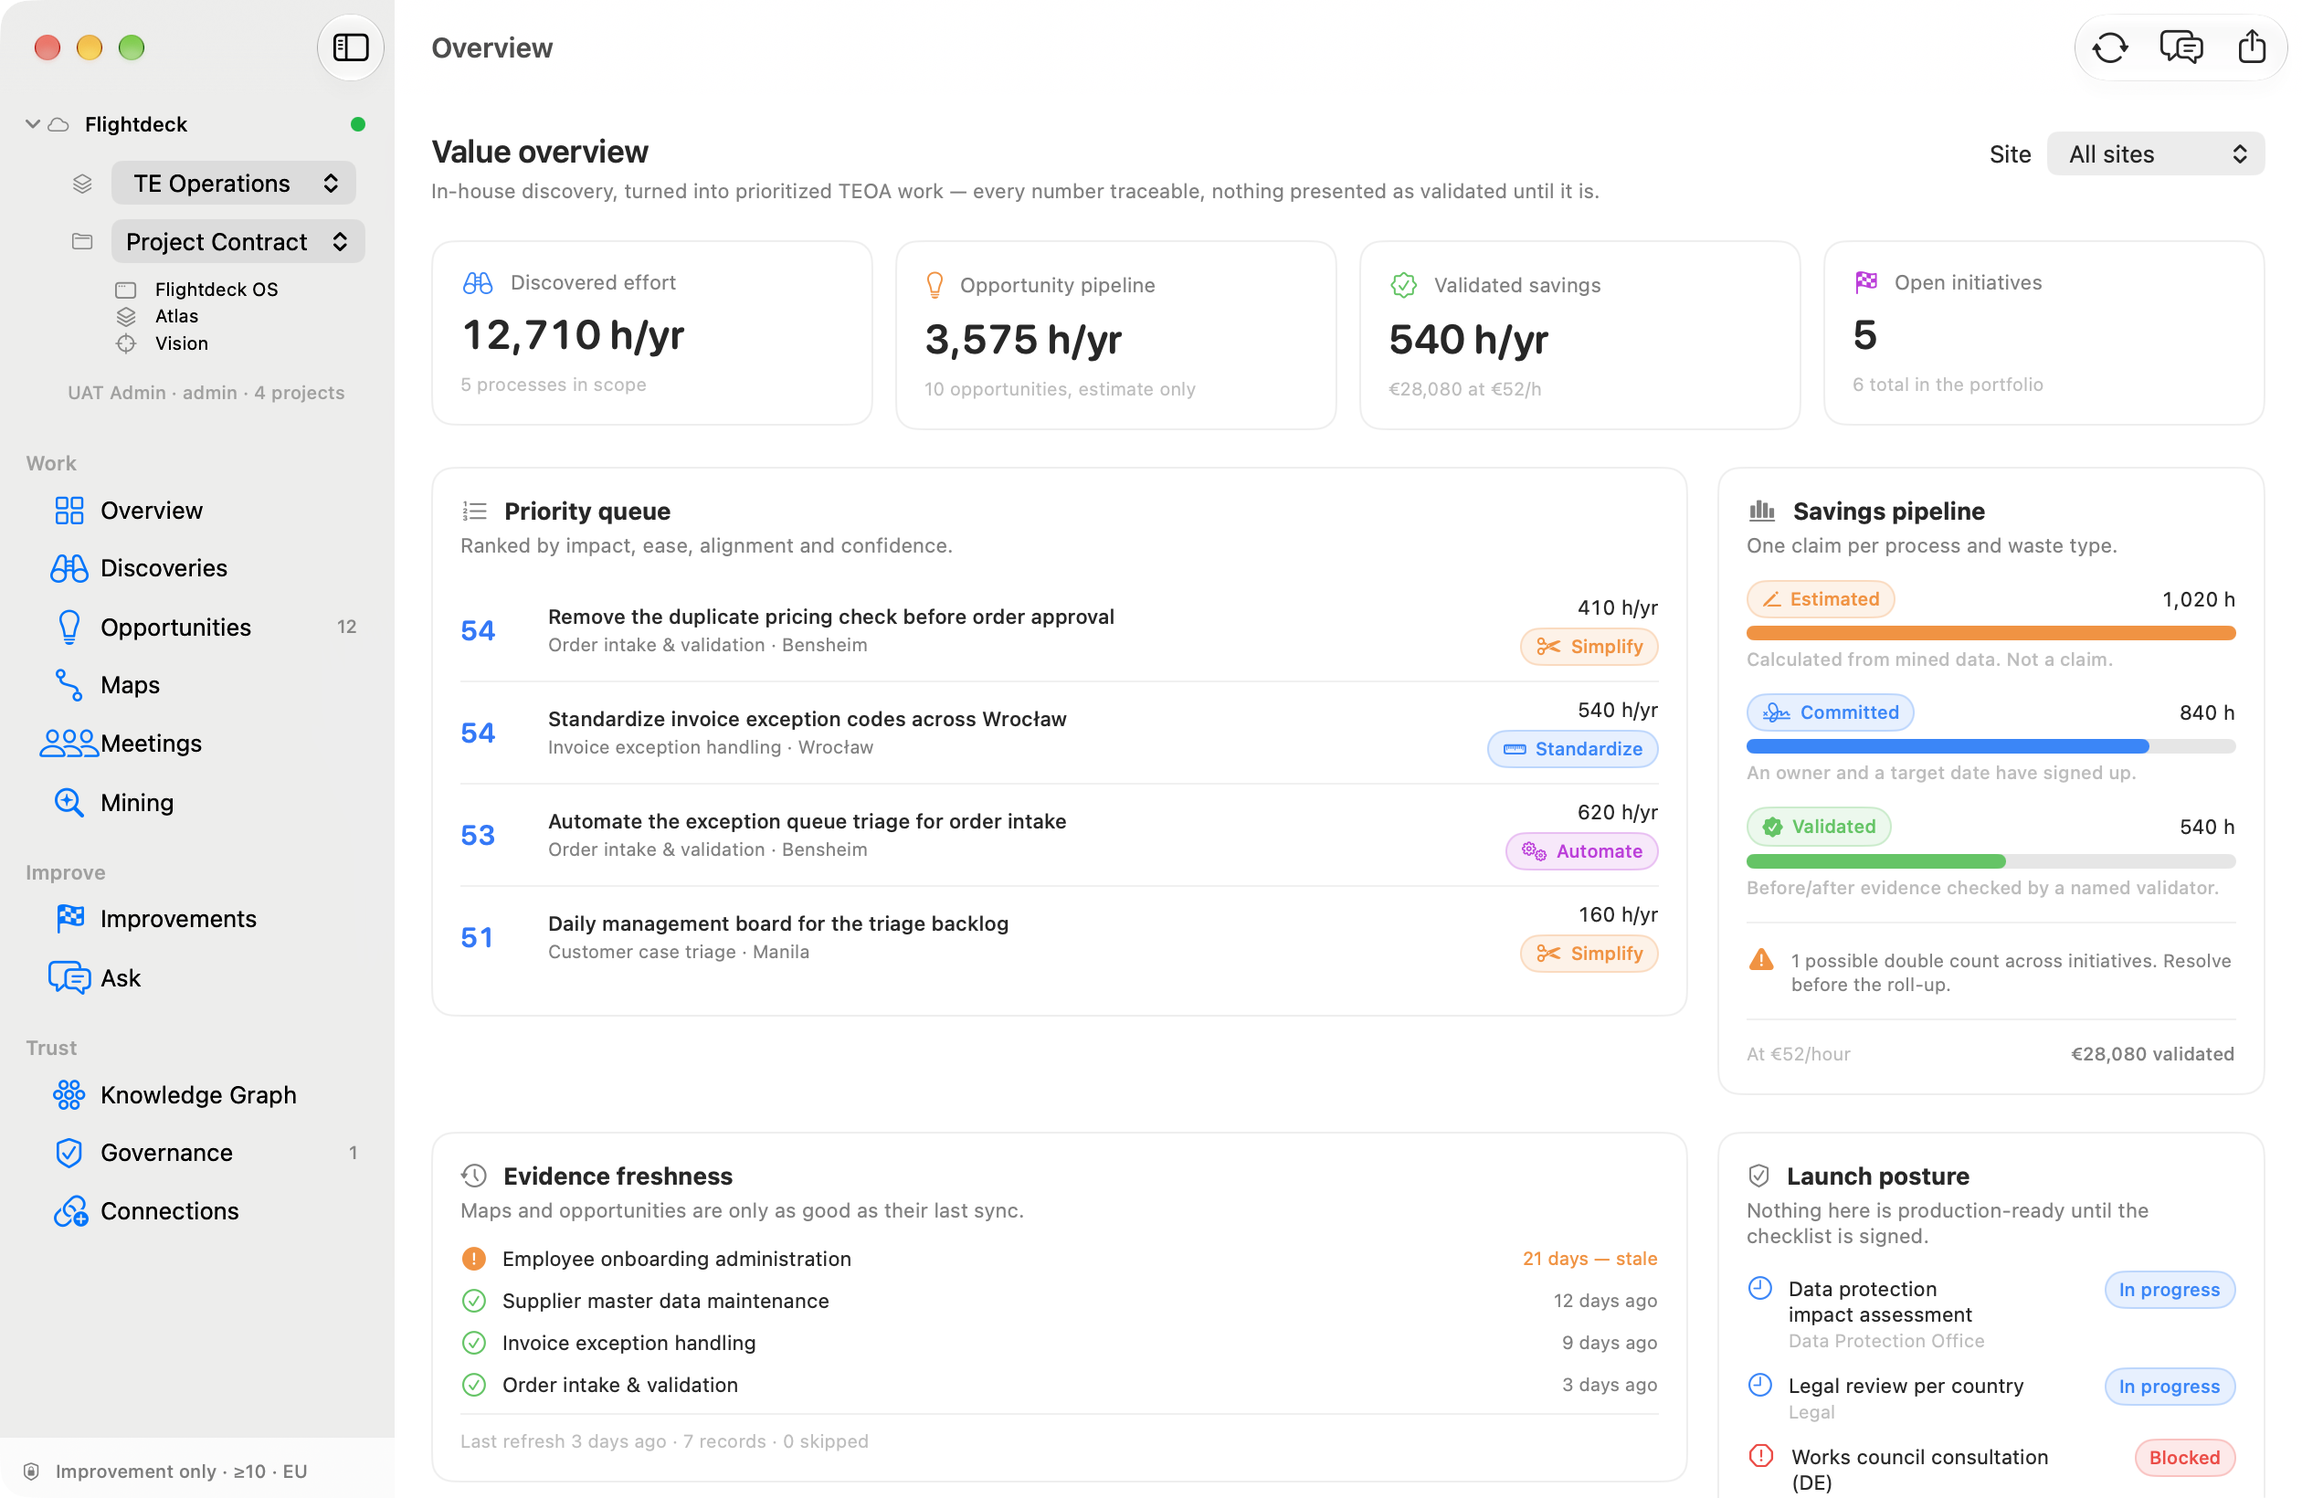
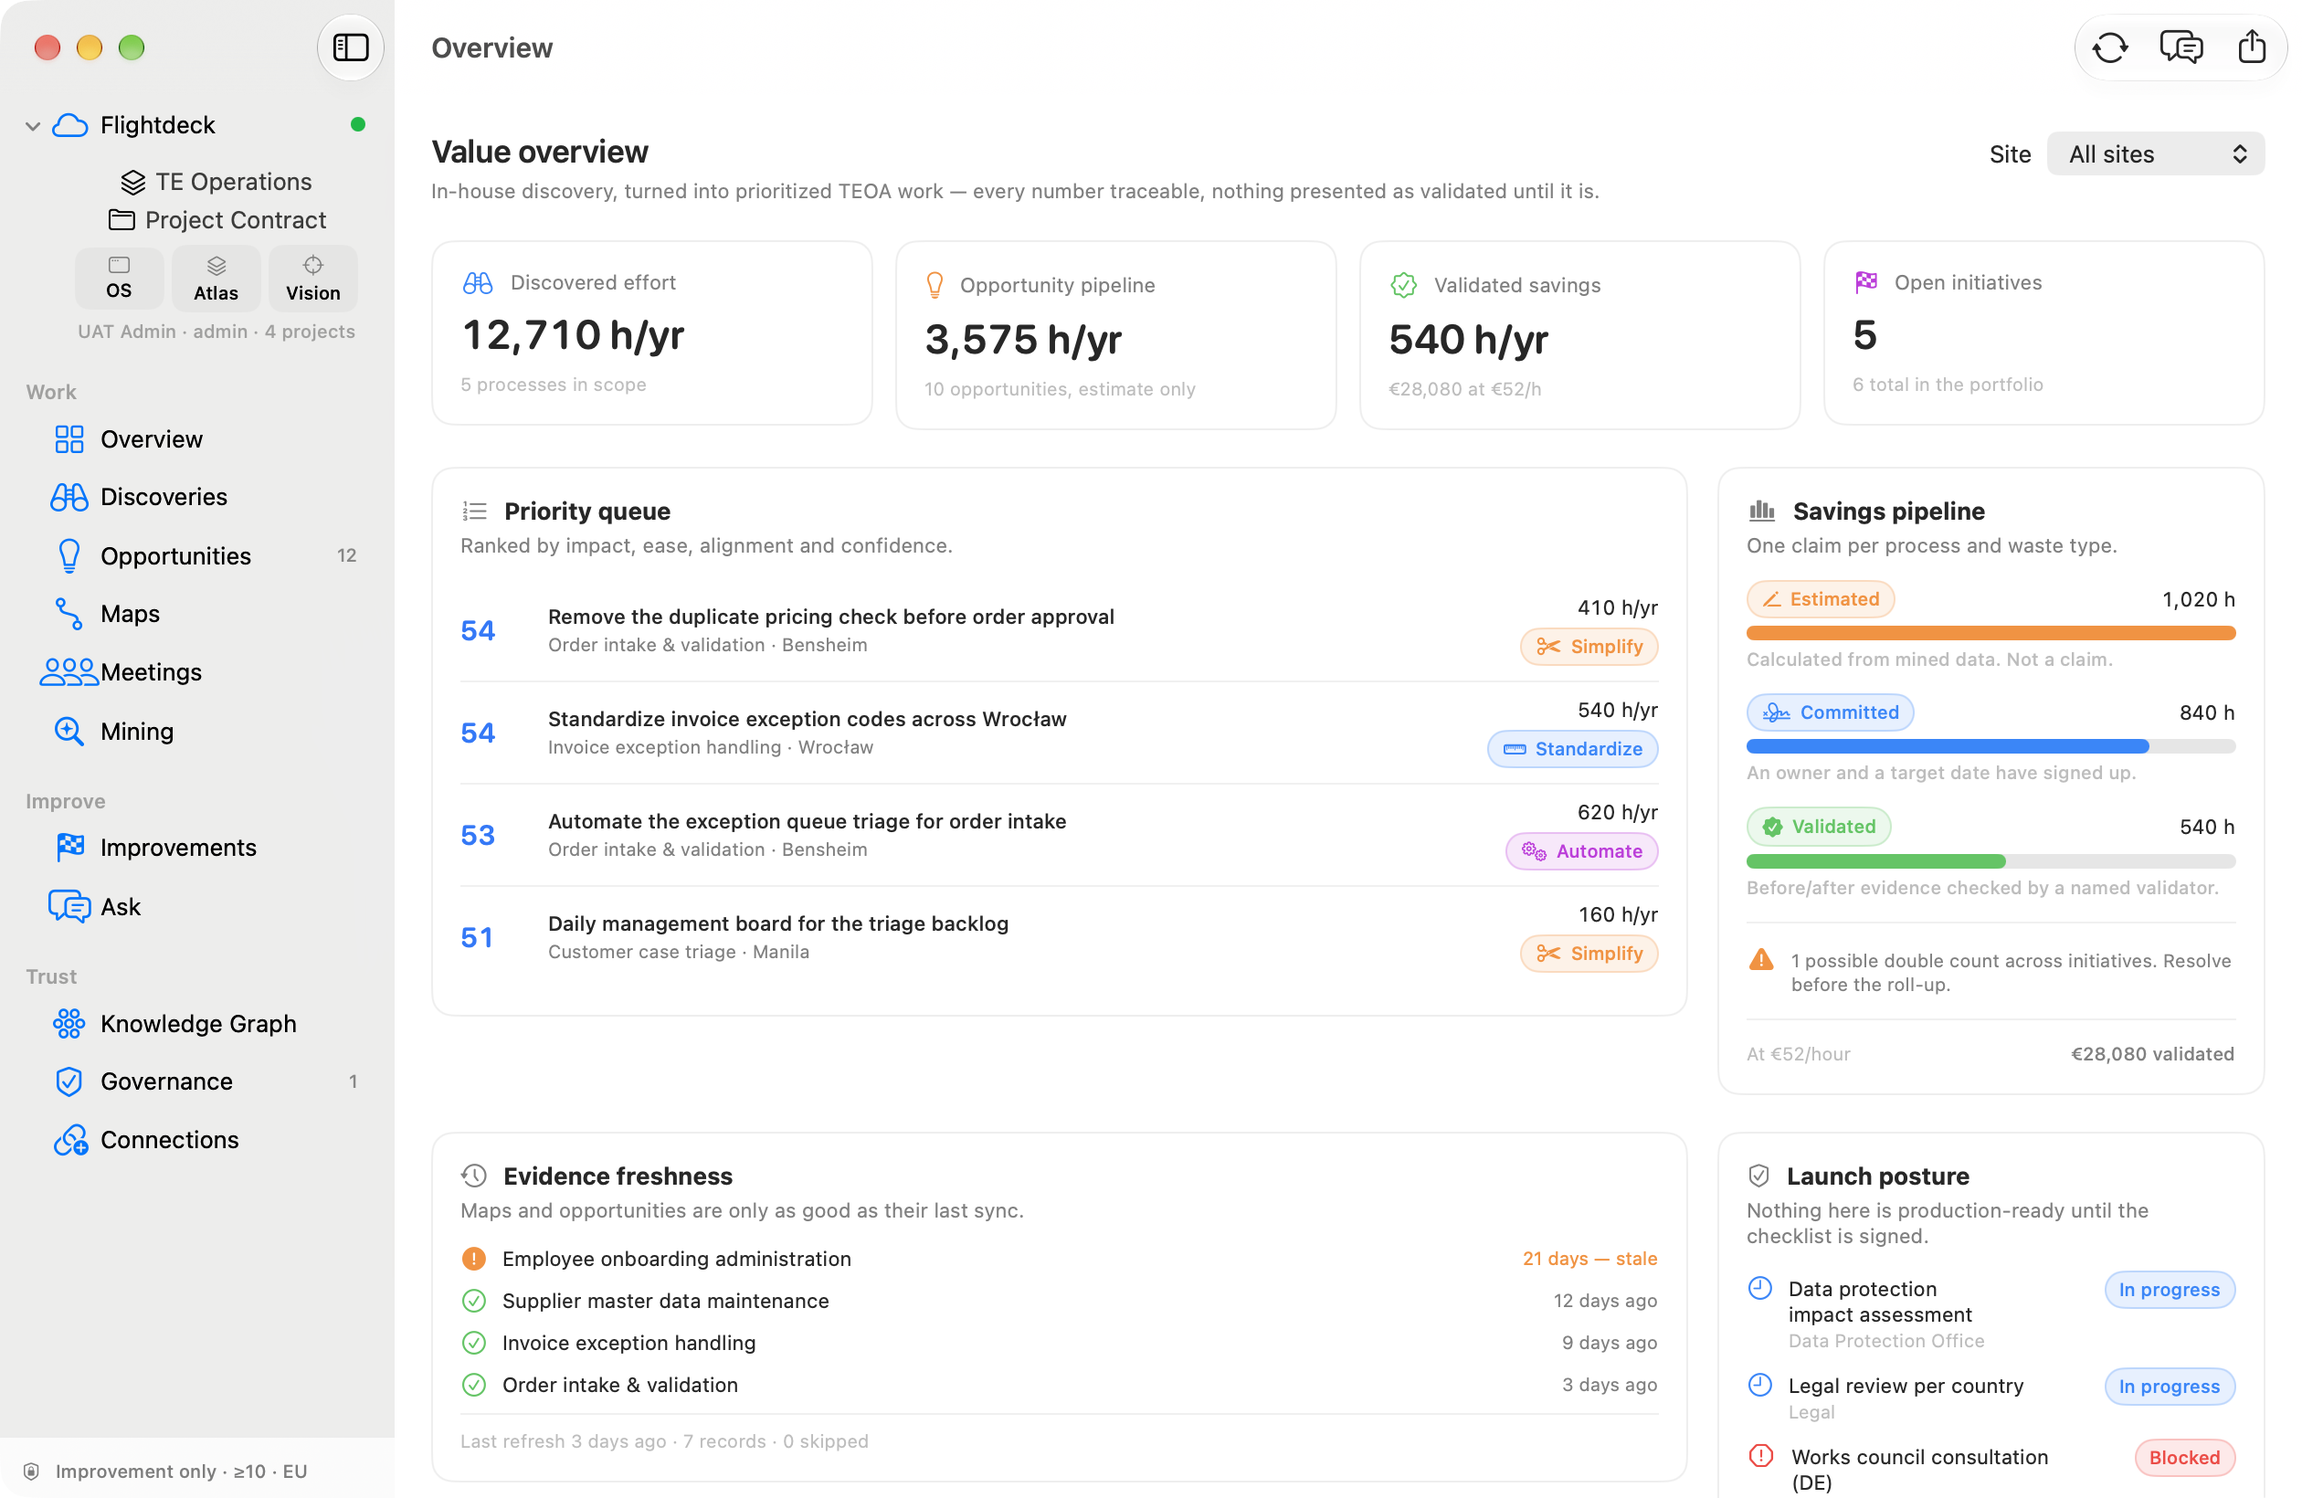
Match the Flightdeck sidebar to the native menu style and centre its context

Changed region(s): [[0.0, 0.0622, 0.1548, 0.622], [0.0, 0.653, 0.1238, 0.7774], [0.031, 0.8085, 0.0619, 0.8396]]

diff --git a/macos/ProcessLink/Sources/ProcessLink/UI/FlightdeckSidebar.swift b/macos/ProcessLink/Sources/ProcessLink/UI/FlightdeckSidebar.swift
@@ -11,32 +11,37 @@ struct FlightdeckSidebar: View {
 
     var body: some View {
         DisclosureGroup(isExpanded: $expanded) {
-            if flightdeck.isSignedIn {
-                workspaceRow
-                projectRow
-                links
-                if let health = flightdeck.health["os"] {
-                    Text(health.detail)
-                        .font(.caption2)
-                        .foregroundStyle(.tertiary)
-                        .lineLimit(1)
-                        .help(health.detail)
-                }
-            } else {
-                Button {
-                    model.page = .connections
-                } label: {
-                    Label("Connect Flightdeck", systemImage: "link.badge.plus")
-                        .font(.caption)
+            VStack(spacing: Space.xs) {
+                if flightdeck.isSignedIn {
+                    workspaceMenu
+                    projectMenu
+                    links
+                    if let health = flightdeck.health["os"] {
+                        Text(health.detail)
+                            .font(.caption2)
+                            .foregroundStyle(.tertiary)
+                            .lineLimit(1)
+                            .multilineTextAlignment(.center)
+                            .frame(maxWidth: .infinity, alignment: .center)
+                            .help(health.detail)
+                    }
+                } else {
+                    Button {
+                        model.page = .connections
+                    } label: {
+                        Label("Connect Flightdeck", systemImage: "link.badge.plus")
+                            .font(.body)
+                            .frame(maxWidth: .infinity, alignment: .center)
+                    }
+                    .buttonStyle(.plain)
                 }
             }
+            .padding(.horizontal, Space.xs)
+            .padding(.top, 2)
         } label: {
             HStack(spacing: Space.sm) {
-                Image(systemName: "cloud")
-                    .font(.caption)
-                    .foregroundStyle(.secondary)
-                Text("Flightdeck")
-                    .font(.subheadline.weight(.medium))
+                Label("Flightdeck", systemImage: "cloud")
+                    .font(.body.weight(.medium))
                 Spacer()
                 Circle()
                     .fill(statusTint)
@@ -49,53 +54,87 @@ struct FlightdeckSidebar: View {
         }
     }
 
-    private var workspaceRow: some View {
-        HStack(spacing: Space.sm) {
-            Image(systemName: "square.stack.3d.up")
-                .font(.caption)
-                .foregroundStyle(.secondary)
-                .frame(width: 16)
-            Picker("Workspace", selection: $flightdeck.workspaceID) {
-                ForEach(flightdeck.workspaces) { workspace in
-                    Text(workspace.label).tag(workspace.id)
+    // MARK: Workspace and project
+
+    private var workspaceMenu: some View {
+        Menu {
+            ForEach(flightdeck.workspaces) { workspace in
+                Button {
+                    flightdeck.workspaceID = workspace.id
+                    Task { await flightdeck.refreshContext() }
+                } label: {
+                    if workspace.id == flightdeck.workspaceID {
+                        Label(workspace.label, systemImage: "checkmark")
+                    } else {
+                        Text(workspace.label)
+                    }
                 }
             }
-            .labelsHidden()
-            .pickerStyle(.menu)
-            .onChange(of: flightdeck.workspaceID) { _, _ in
-                Task { await flightdeck.refreshContext() }
-            }
+        } label: {
+            menuLabel(symbol: "square.stack.3d.up",
+                      text: flightdeck.workspaces.first(where: { $0.id == flightdeck.workspaceID })?.label ?? "Workspace")
         }
+        .menuStyle(.borderlessButton)
+        .menuIndicator(.hidden)
+        .frame(maxWidth: .infinity, alignment: .center)
         .help("Flightdeck workspace")
     }
 
-    private var projectRow: some View {
-        HStack(spacing: Space.sm) {
-            Image(systemName: "folder")
-                .font(.caption)
-                .foregroundStyle(.secondary)
-                .frame(width: 16)
-            Picker("Project", selection: $flightdeck.projectID) {
-                ForEach(flightdeck.projects.filter(\.enabled)) { project in
-                    Text(project.label).tag(project.id)
+    private var projectMenu: some View {
+        Menu {
+            ForEach(flightdeck.projects.filter(\.enabled)) { project in
+                Button {
+                    flightdeck.projectID = project.id
+                } label: {
+                    if project.id == flightdeck.projectID {
+                        Label(project.label, systemImage: "checkmark")
+                    } else {
+                        Text(project.label)
+                    }
                 }
             }
-            .labelsHidden()
-            .pickerStyle(.menu)
+        } label: {
+            menuLabel(symbol: "folder",
+                      text: flightdeck.projects.first(where: { $0.id == flightdeck.projectID })?.label ?? "Project")
         }
+        .menuStyle(.borderlessButton)
+        .menuIndicator(.hidden)
+        .frame(maxWidth: .infinity, alignment: .center)
         .help("Flightdeck project")
     }
 
-    private var links: some View {
-        VStack(alignment: .leading, spacing: 1) {
-            link("Flightdeck OS", symbol: "macwindow", url: flightdeck.baseURLString)
-            link("Atlas", symbol: "square.stack.3d.up", url: flightdeck.atlasURLString)
-            link("Vision", symbol: "scope", url: visionURL)
+    private func menuLabel(symbol: String, text: String) -> some View {
+        HStack(spacing: Space.sm) {
+            Image(systemName: symbol)
+                .font(.body)
+                .foregroundStyle(.secondary)
+                .frame(width: 16)
+            Text(text)
+                .font(.body)
+                .lineLimit(1)
+            Image(systemName: "chevron.up.chevron.down")
+                .font(.system(size: 9, weight: .semibold))
+                .foregroundStyle(.tertiary)
         }
-        .padding(.leading, 24)
+        .padding(.horizontal, Space.sm)
+        .padding(.vertical, 4)
+        .frame(maxWidth: .infinity, alignment: .center)
+        .contentShape(Rectangle())
     }
 
-    private func link(_ title: String, symbol: String, url: String) -> some View {
+    // MARK: Links
+
+    private var links: some View {
+        HStack(spacing: Space.xs) {
+            link("OS", title: "Flightdeck OS", symbol: "macwindow", url: flightdeck.baseURLString)
+            link("Atlas", title: "Atlas", symbol: "square.stack.3d.up", url: flightdeck.atlasURLString)
+            link("Vision", title: "Vision", symbol: "scope", url: visionURL)
+        }
+        .padding(.top, 2)
+        .frame(maxWidth: .infinity, alignment: .center)
+    }
+
+    private func link(_ label: String, title: String, symbol: String, url: String) -> some View {
         Button {
             guard let value = URL(string: url.trimmingCharacters(in: .whitespaces)),
                   !url.trimmingCharacters(in: .whitespaces).isEmpty else {
@@ -104,19 +143,21 @@ struct FlightdeckSidebar: View {
             }
             NSWorkspace.shared.open(value)
         } label: {
-            HStack(spacing: Space.sm) {
+            VStack(spacing: 2) {
                 Image(systemName: symbol)
-                    .font(.caption2)
-                    .foregroundStyle(.secondary)
-                    .frame(width: 16)
-                Text(title)
                     .font(.caption)
+                    .foregroundStyle(.secondary)
+                Text(label)
+                    .font(.caption2)
                     .lineLimit(1)
             }
+            .frame(maxWidth: .infinity)
+            .padding(.vertical, 4)
+            .background(Color.primary.opacity(0.04),
+                        in: RoundedRectangle(cornerRadius: 8, style: .continuous))
+            .contentShape(Rectangle())
         }
         .buttonStyle(.plain)
-        .frame(maxWidth: .infinity, alignment: .leading)
-        .contentShape(Rectangle())
         .help("Open \(title)")
         .accessibilityLabel("Open \(title)")
     }

diff --git a/web/src/components/FlightdeckSidebar.tsx b/web/src/components/FlightdeckSidebar.tsx
@@ -27,6 +27,7 @@ export function FlightdeckSidebar() {
             <select value={workspace} onChange={e => setWorkspace(e.target.value)} aria-label="Flightdeck workspace">
               <option>TE Operations</option>
             </select>
+            <span className="fd-chevron" aria-hidden="true">⌄</span>
           </label>
           <label className="fd-select-row">
             <Icon name="folder" size={13} />
@@ -35,11 +36,12 @@ export function FlightdeckSidebar() {
               <option>General</option>
               <option>Cockpits</option>
             </select>
+            <span className="fd-chevron" aria-hidden="true">⌄</span>
           </label>
           <div className="fd-links">
-            <a href={OS_URL} target="_blank" rel="noreferrer"><Icon name="macwindow" size={12} />Flightdeck OS</a>
-            <a href={ATLAS_URL} target="_blank" rel="noreferrer"><Icon name="layers" size={12} />Atlas</a>
-            <a href={VISION_URL} target="_blank" rel="noreferrer"><Icon name="vision" size={12} />Vision</a>
+            <a href={OS_URL} target="_blank" rel="noreferrer" title="Flightdeck OS"><Icon name="macwindow" size={12} />OS</a>
+            <a href={ATLAS_URL} target="_blank" rel="noreferrer" title="Atlas"><Icon name="layers" size={12} />Atlas</a>
+            <a href={VISION_URL} target="_blank" rel="noreferrer" title="Vision"><Icon name="vision" size={12} />Vision</a>
           </div>
           <div className="fd-caption">UAT · {workspace} · {project}</div>
         </div>

diff --git a/web/src/styles.css b/web/src/styles.css
@@ -593,3 +593,19 @@ table.ledger td.num, table.ledger th.num { text-align: right; font-variant-numer
 .insight-card { border: 1px solid var(--border); border-radius: 8px; padding: 10px; background: var(--panel-2); }
 .sim-row { display: grid; grid-template-columns: 1fr auto auto; gap: 8px; align-items: center; font-size: 11.5px; padding: 3px 0; }
 @media (max-width: 1100px) { .mining-cases { grid-template-columns: 1fr; } }
+
+/* centered Flightdeck context */
+.fd-body { align-items: center; padding-left: 4px; padding-right: 4px; }
+.fd-select-row { justify-content: center; width: 100%; padding: 2px 4px; }
+.fd-select-row select {
+  flex: 0 1 auto; max-width: calc(100% - 52px); border: 0; background: transparent;
+  text-align: center; padding: 2px 0; font-size: 12px; font-weight: 500;
+}
+.fd-select-row .fd-chevron { font-size: 9px; color: var(--tertiary); }
+.fd-links { flex-direction: row; width: 100%; gap: 4px; padding: 3px 0 0; }
+.fd-links a {
+  flex: 1; flex-direction: column; justify-content: center; gap: 2px;
+  padding: 5px 3px; border-radius: 8px; background: color-mix(in srgb, var(--text) 4%, transparent);
+  font-size: 10px;
+}
+.fd-caption { width: 100%; text-align: center; }

diff --git a/docs/RELEASING.md b/docs/RELEASING.md
@@ -11,7 +11,7 @@ A GitHub Release carries both desktop installers:
 
 The workflow is [`.github/workflows/release.yml`](../.github/workflows/release.yml).
 
-The current release, [v0.1.5](https://github.com/pallefar/ProcessLink/releases/tag/v0.1.5),
+The current release, [v0.1.6](https://github.com/pallefar/ProcessLink/releases/tag/v0.1.6),
 was published with the macOS DMG and a locally cross-built Windows NSIS
 installer because GitHub Actions is currently locked on the account with a
 billing error. The workflow is ready to add the MSI and a CI-built NSIS
@@ -23,8 +23,8 @@ installer once Actions is available.
 git remote add origin git@github.com:<owner>/<repo>.git   # once
 git push -u origin main
 
-git tag v0.1.5
-git push origin v0.1.5
+git tag v0.1.6
+git push origin v0.1.6
 ```
 
 The tag starts the workflow. It builds macOS and Windows in parallel, mounts
@@ -70,12 +70,12 @@ certificate to the Windows runner before calling the build signed.
 
 ```bash
 # macOS universal DMG (ad-hoc unless SIGN_IDENTITY is set)
-macos/ProcessLink/tools/package.sh --version 0.1.5
+macos/ProcessLink/tools/package.sh --version 0.1.6
 
 # macOS notarized
 SIGN_IDENTITY="Developer ID Application: …" \
 APPLE_ID=… APPLE_TEAM_ID=… APPLE_APP_SPECIFIC_PASSWORD=… \
-macos/ProcessLink/tools/package.sh --version 0.1.5 --notarize
+macos/ProcessLink/tools/package.sh --version 0.1.6 --notarize
 
 # Windows, on a Windows host
 npm ci --prefix web

diff --git a/README.md b/README.md
@@ -217,12 +217,12 @@ app and in [`docs/PHASE-0-DISCOVERY.md`](docs/PHASE-0-DISCOVERY.md).
 Tag a version and GitHub Actions builds both desktop installers:
 
 ```bash
-git tag v0.1.5 && git push origin v0.1.5
+git tag v0.1.6 && git push origin v0.1.6
 ```
 
 The release contains a universal macOS DMG (`arm64` + `x86_64`), a Windows
 NSIS setup (and an MSI from the Windows CI job), and `SHA256SUMS.txt`.
-[Download v0.1.5](https://github.com/pallefar/ProcessLink/releases/tag/v0.1.5).
+[Download v0.1.6](https://github.com/pallefar/ProcessLink/releases/tag/v0.1.6).
 Local packaging, signing and the current Actions billing note are in
 [`docs/RELEASING.md`](docs/RELEASING.md).
 
